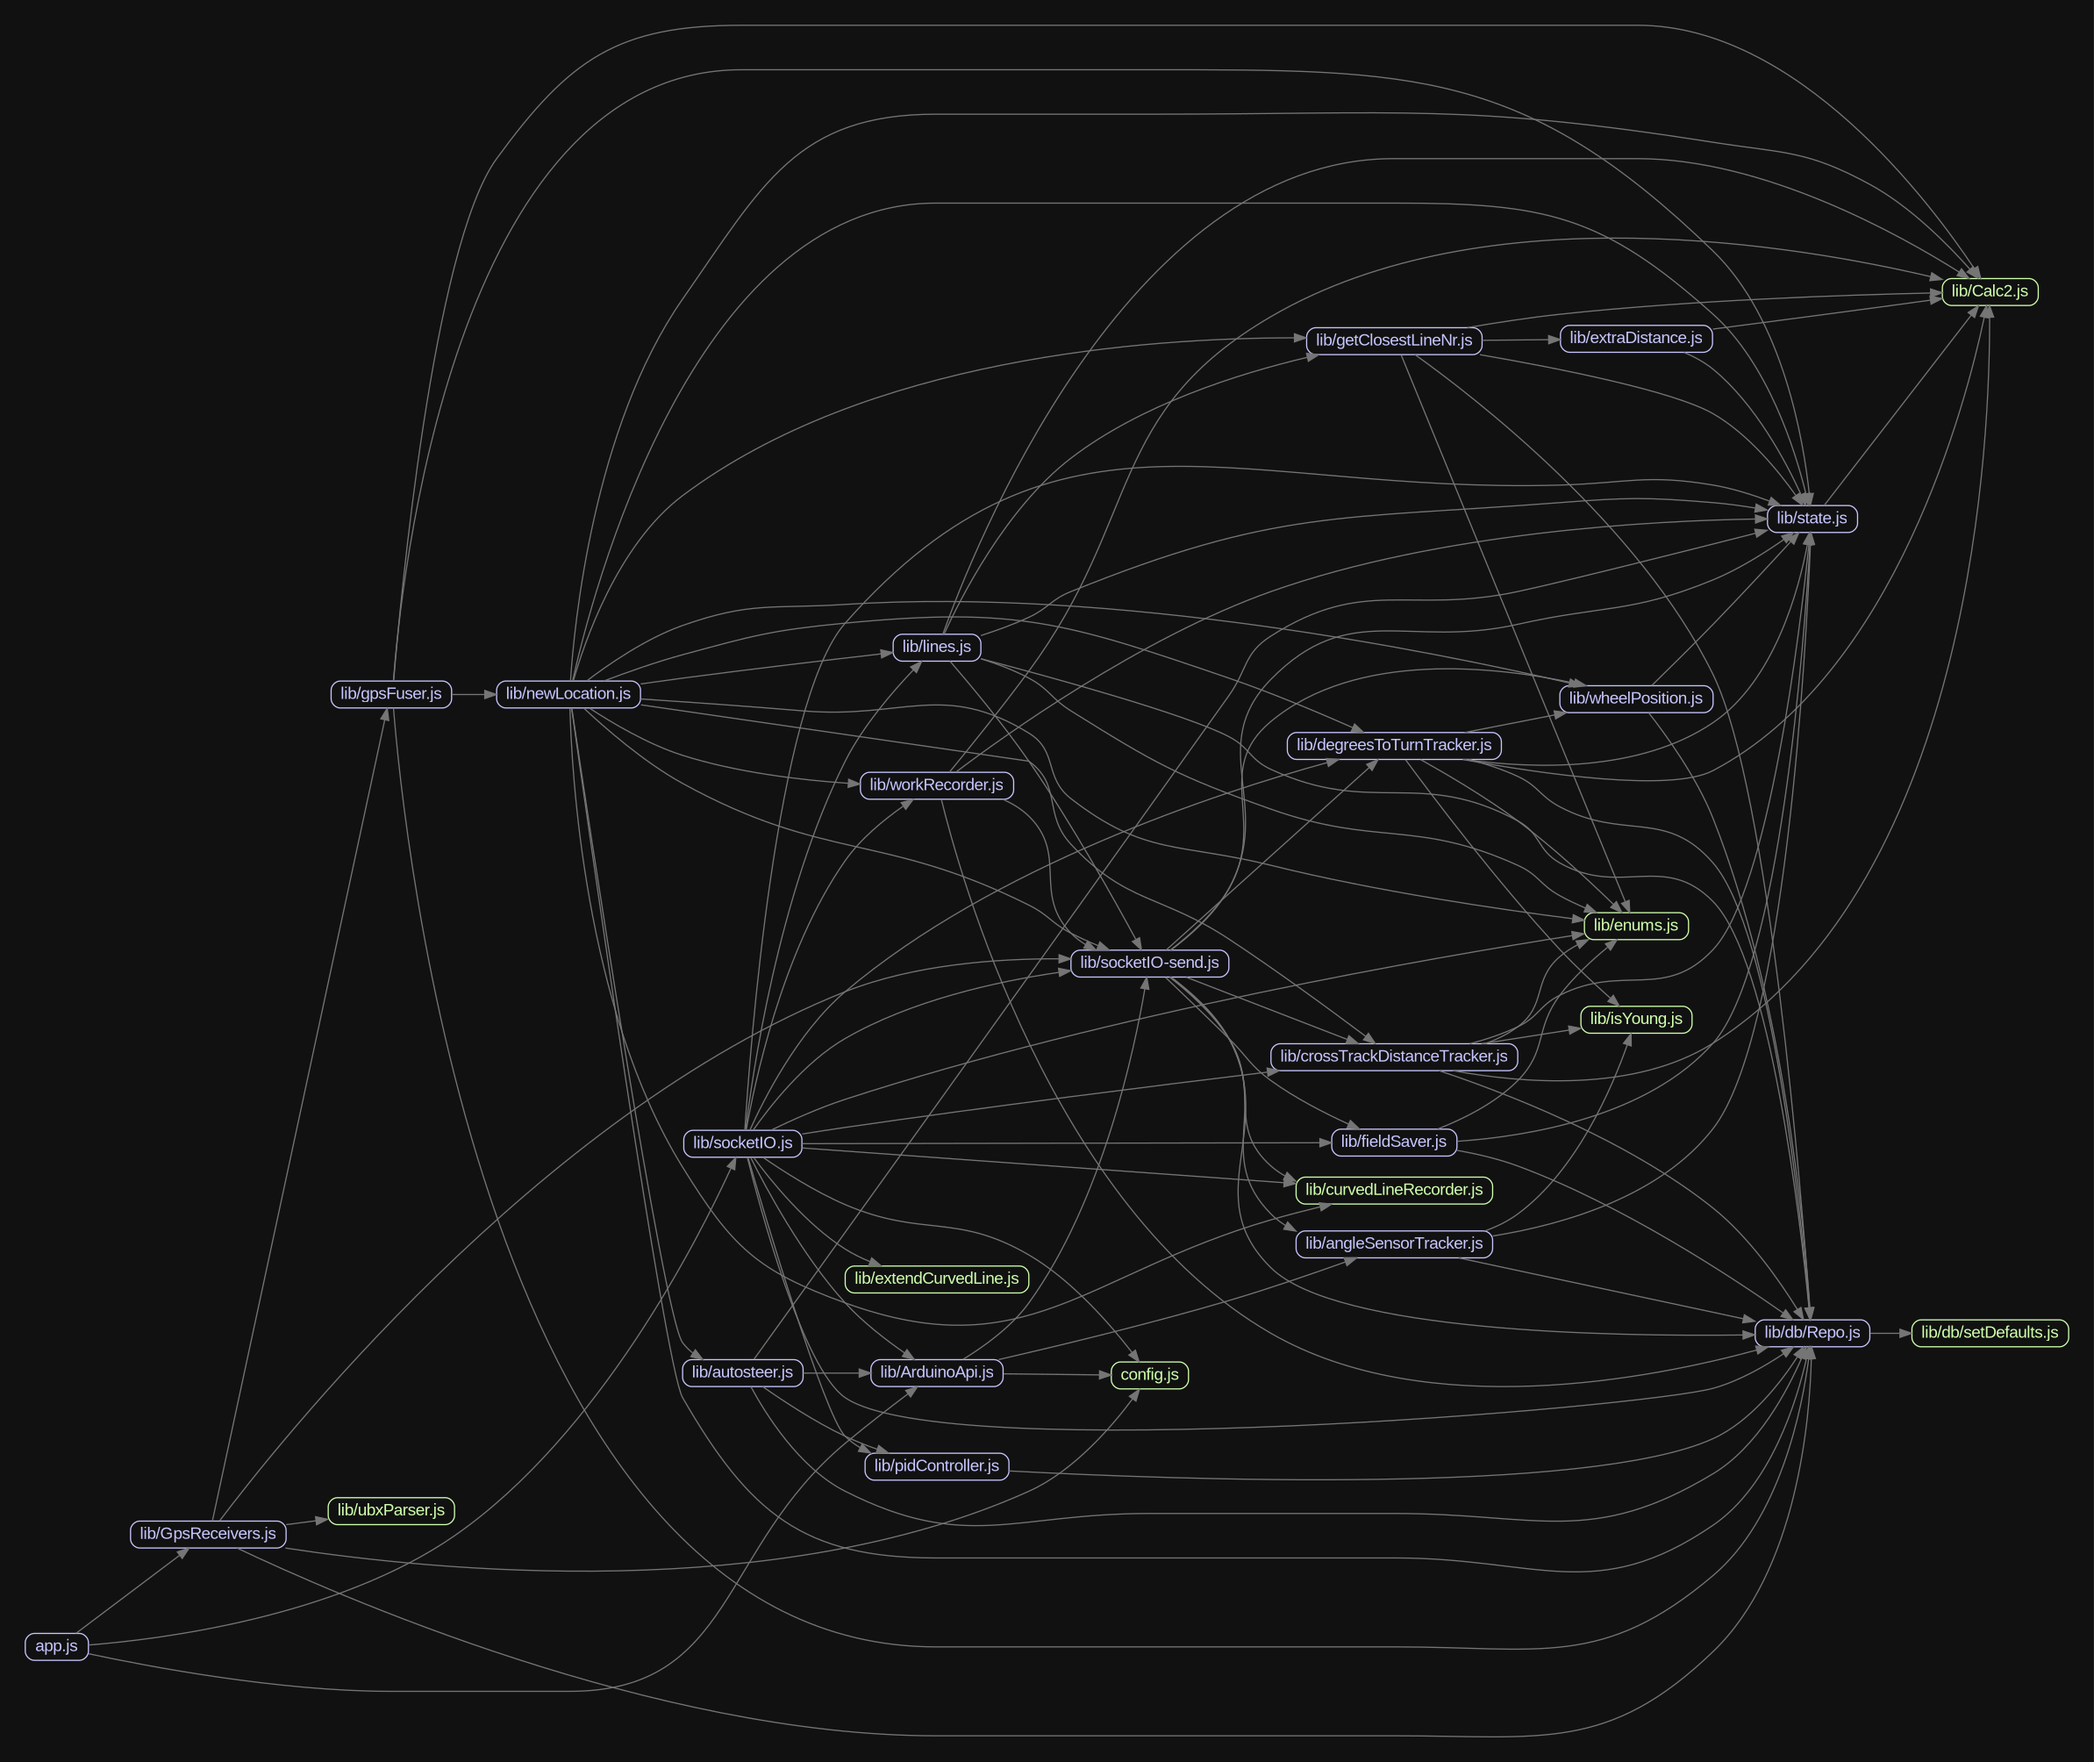
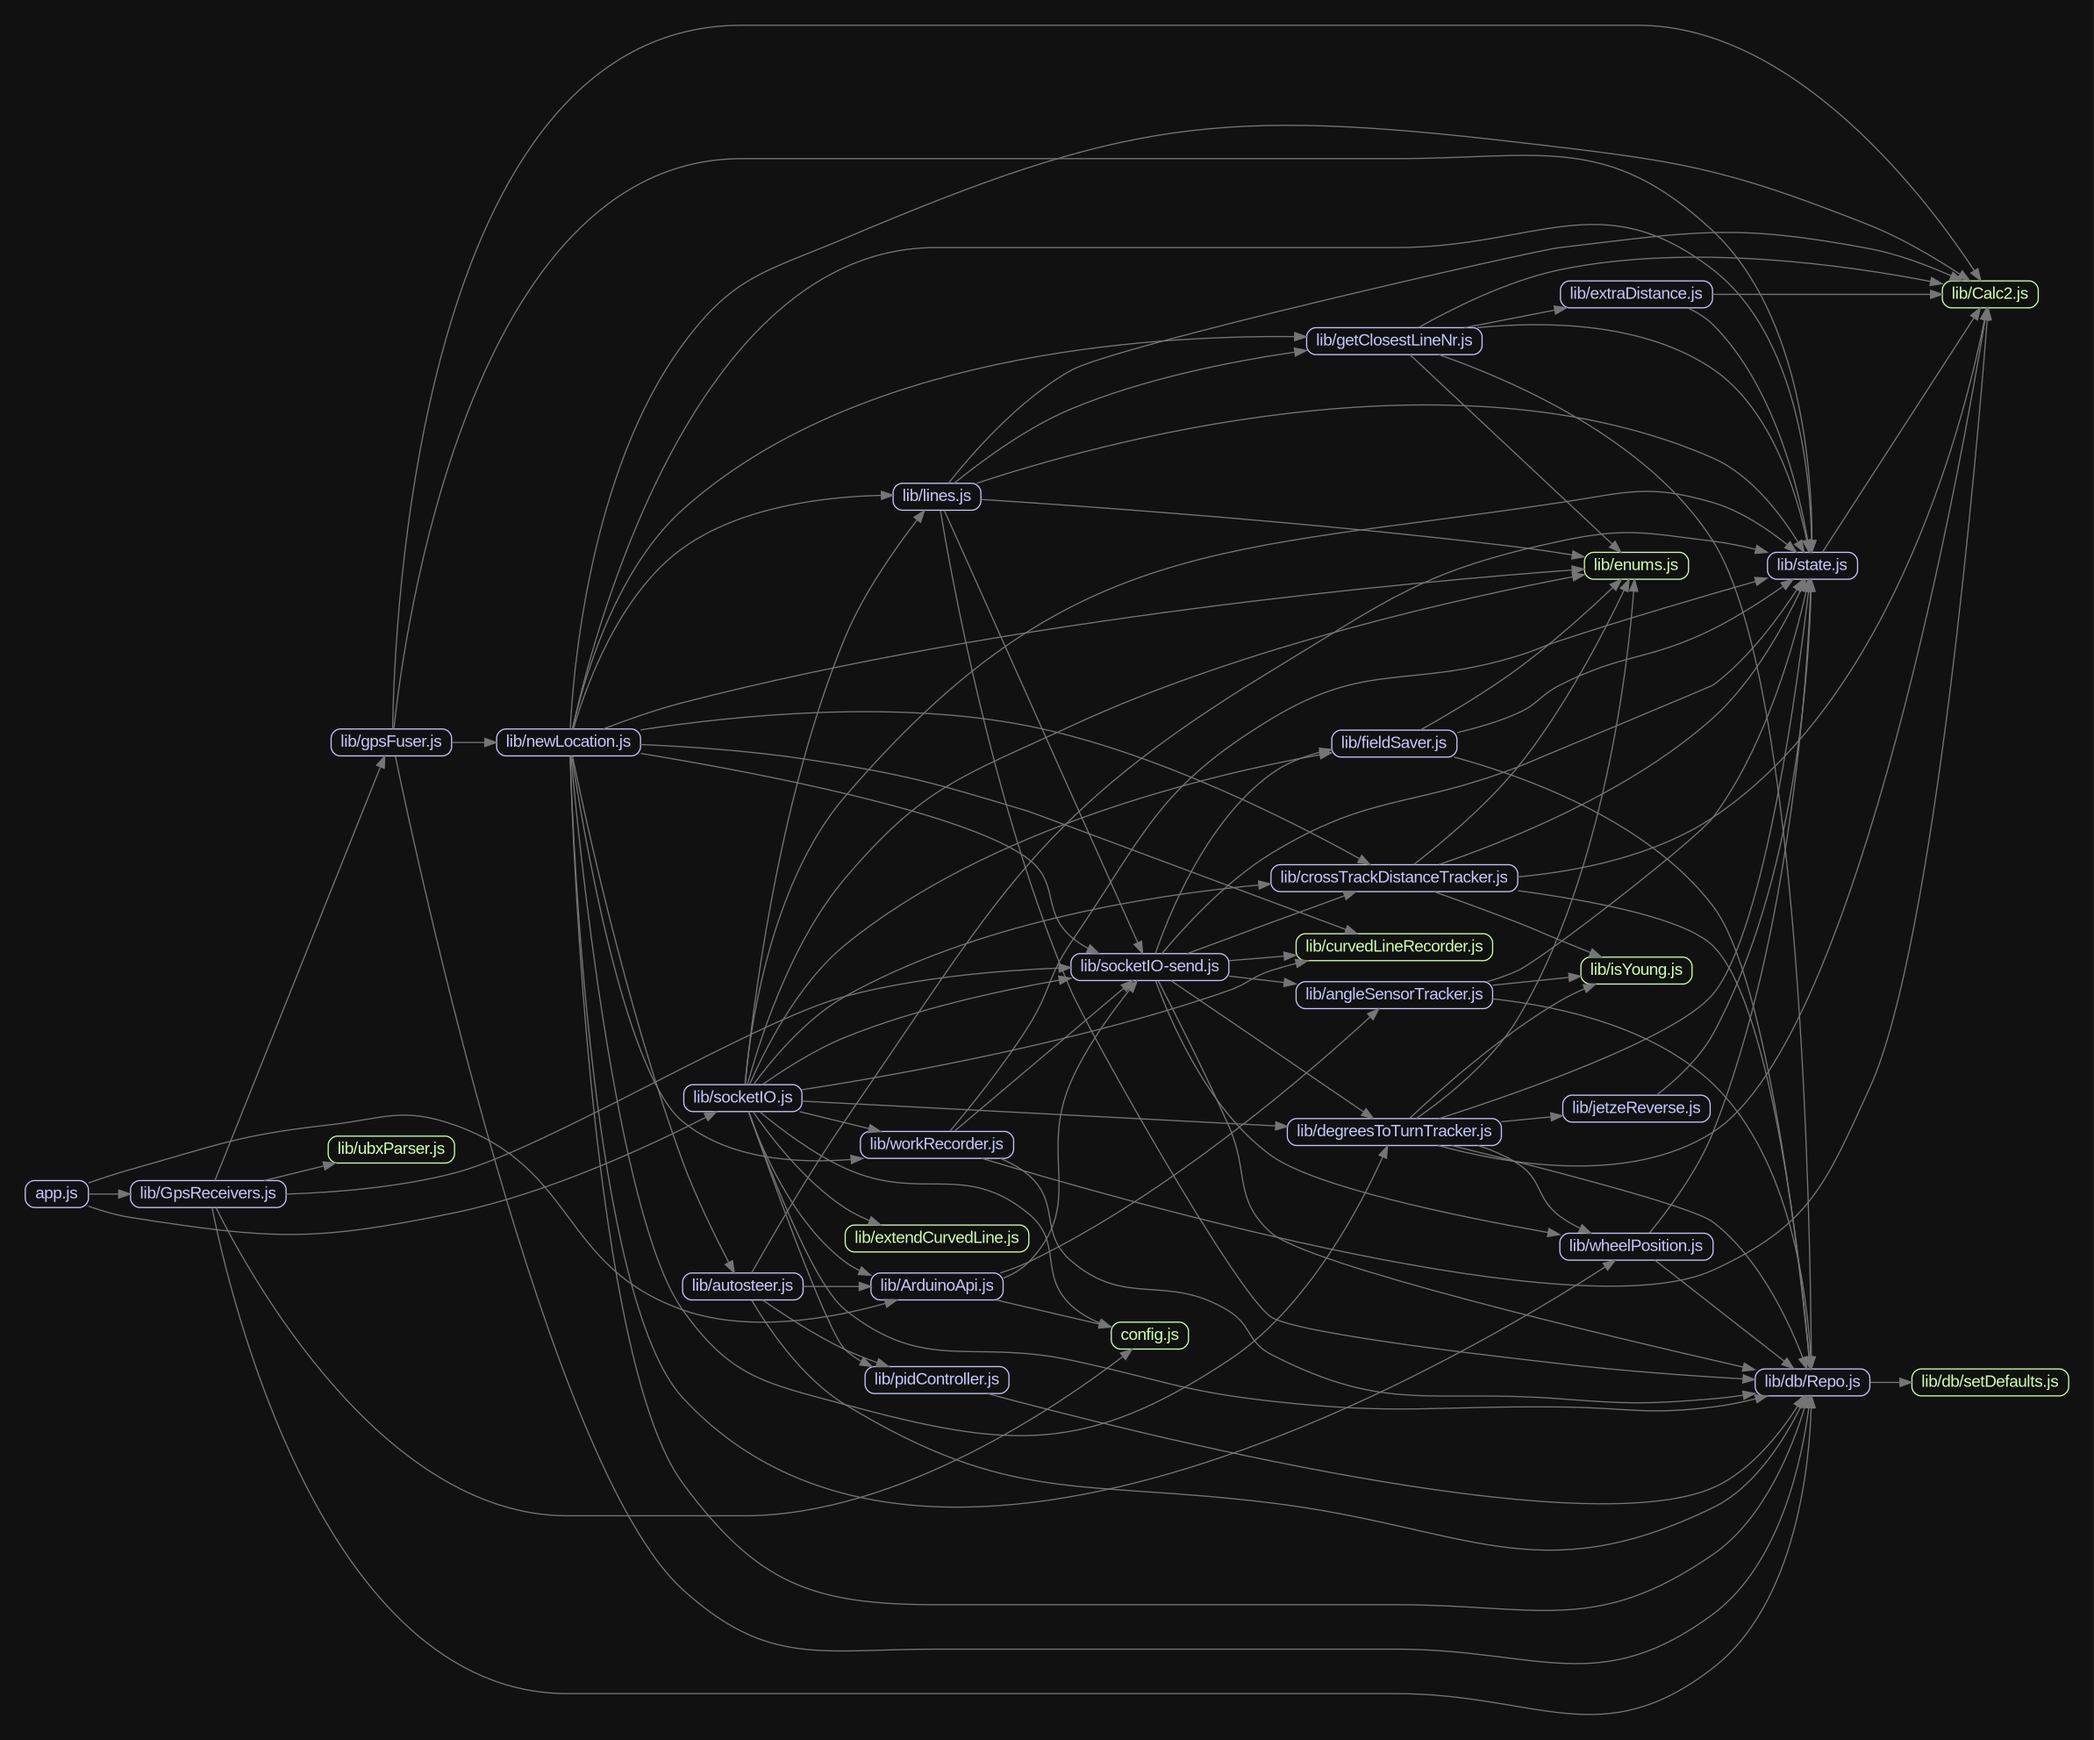
fixes and reverse

diff --git a/lib/GpsReceivers.js b/lib/GpsReceivers.js
@@ -20,6 +20,7 @@ const ntripClient = new NtripClient({
   mountpoint: DB.getSettings().ntrip.mountpoint,
   username: DB.getSettings().ntrip.username,
   password: DB.getSettings().ntrip.password,
+  timeout: 2000,
   interval: 2000 // the interval of send nmea, unit is millisecond
 });
 
@@ -27,10 +28,10 @@ assistNow();
 function assistNow() {
   axios.get('http://online-live1.services.u-blox.com/GetOnlineData.ashx?token=_REPLACE-WITH-UBLOX-ASSISTNOW-TOKEN_;gnss=gps,glo,gal;datatype=eph,alm', { responseType: 'arraybuffer' })
     .then(response => {
-      portGpsLeft.write(response.data);
-      portGpsRight.write(response.data);
+        portGpsLeft.write(response.data);
+        portGpsRight.write(response.data);
     }).catch(error => {
-      console.error('assistnow:' ,error);
+      console.error('assistnow:', error);
     });
 }
 
@@ -106,15 +107,15 @@ function processUbxRight(ubx) {
 }
 
 function setupReceiver(port) {
-  port.write('B562068A09000001000005005210000160', 'hex'); //valset disable CFG-UART1
-  port.write('B562068A09000001000005005310000263', 'hex'); //valset disable CFG-UART2
-  port.write('B56206080600C80001000000DD68', 'hex'); //rate 5hz
+    port.write('B562068A09000001000005005210000160', 'hex'); //valset disable CFG-UART1  
+    port.write('B562068A09000001000005005310000263', 'hex'); //valset disable CFG-UART2  
+    port.write('B56206080600C80001000000DD68', 'hex'); //rate 5hz
 
[1 lines of base64/hex data omitted]
-  port.write('B562068A090000010000AE00912000F98A', 'hex'); //CFG-MSGOUT disable RMC
-
-  //  portGpsLeft.write('B562060108000114000000010000253A', 'hex'); //NAV-HPPOSLLH
-  port.write('B562068A09000001000009009120015552', 'hex'); //valset enable CFG-UBX_NAV_PVT_USB
[1 lines of base64/hex data omitted]
+    port.write('B562068A090000010000AE00912000F98A', 'hex'); //CFG-MSGOUT disable RMC
+ 
+    //  portGpsLeft.write('B562060108000114000000010000253A', 'hex'); //NAV-HPPOSLLH
+    port.write('B562068A09000001000009009120015552', 'hex'); //valset enable CFG-UBX_NAV_PVT_USB
   //port.write('B562068A0900000100000400922001513c', 'hex'); //valset enable CFG-INFMSG-UBX_USB
 }
 

diff --git a/lib/degreesToTurnTracker.js b/lib/degreesToTurnTracker.js
@@ -7,7 +7,8 @@ const Calc2 = require('./Calc2');
 const isYoung = require('./isYoung');
 const WheelPosition = require('./wheelPosition');
 const Enums = require('./enums');
-
+const Tractor = require('./jetzeReverse').Tractor;
+const TargetLine  = require('./jetzeReverse').TargetLine;
 const DegreesToTurnTracker = (function () {
   let historys = [];
   function update(currentLocation) {
@@ -41,16 +42,26 @@ const DegreesToTurnTracker = (function () {
   }
 
   function updateReverse(currentLocation){
-    const antennaToRearAxleDistance = DB.getSettings().machine.antennaToRearAxleDistance;
-    let reverseDriveBearing = State.driveBearing - 180;
-    const turningRadius = 2;
-    let rearwheelPosition = turf.rhumbDestination(currentLocation, antennaToRearAxleDistance / 1000, reverseDriveBearing).geometry.coordinates; // 2 meter achteruit voor wielen
     
-    if(Calc2.getCrossTrackDistance(State.lines.closestLine[0], rearwheelPosition, State.abLineBearing) > turningRadius){
-      
-    }
+    //target line
+    const pointA = State.lines.closestLine[0]; //[longitude, latitude] 
+    const pointB = State.lines.closestLine[1]; //[longitude, latitude]
+    
+    const maxSteeringAngle = DB.getSettings().machine.maxSteeringAngle; //in degrees
 
-
+    var tractor    = new Tractor(currentLocation, -State.driveBearing);
+    let targetLine = new TargetLine(pointA, pointB, tractor);
+    // Determine if the tractor is too close or too far.
+    let toClose   = targetLine.tractorToClose();
+    let toFar     = targetLine.tractorToFar();
+    // Determine whether to steer left or right
+    let turnAngle = targetLine.tractorTurnDirection(toClose, toFar)*maxSteeringAngle;
+    // Correction for distance to line and speed.
+    turnAngle = turnAngle*(targetLine.alignmentFactor()*targetLine.speedFactor());
+    // console.log('toFar', toFar);
+    // console.log('toClose', toClose)
+    // console.log('turnAngle', turnAngle)
+    State.degreesToTurn = turnAngle
   }
 
   function clear(){

diff --git a/lib/socketIO.js b/lib/socketIO.js
@@ -108,8 +108,8 @@ io.on('connection', (socket) => {
     DB.setSteeringAngleSensor(maxLeft, straight, maxRight);
     IoSend.sendSaveSettingsSuccess(socket);
   });
-  socket.on('saveMachineSettings', ({ antennaHeight, antennaToFrontAxleDistance, antennaToRearAxleDistance, maxSteeringAngle }) => {
-    DB.setMachineSettinges(antennaHeight, antennaToFrontAxleDistance, antennaToRearAxleDistance, maxSteeringAngle);
+  socket.on('saveMachineSettings', ({ antennaHeight, antennaToFrontAxleDistance, antennaToRearAxleDistance, maxSteeringAngle, isReverseSteeringEnabled }) => {
+    DB.setMachineSettinges(antennaHeight, antennaToFrontAxleDistance, antennaToRearAxleDistance, maxSteeringAngle, isReverseSteeringEnabled);
     IoSend.sendSaveSettingsSuccess(socket);
   })
   socket.on('getAngleSensorSettings', () => {
@@ -177,8 +177,10 @@ io.on('connection', (socket) => {
     IoSend.sendABIsSetStatus();
     IoSend.sendClearMap();
     State.curvedLines.abLine = [];
+    State.curvedLines.closestLine = [];
     State.curvedLines.others = [];
     State.isAutosteerAllowed = false;
+    State.bigWorkPolygons = [];
     IoSend.sendIsAutoSteerAllowed();
   });
   socket.on('curvedIsRecording', (isRecording) => {

diff --git a/lib/db/Repo.js b/lib/db/Repo.js
@@ -14,8 +14,8 @@ class Repo {
   static setSteeringAngleSensor(maxLeft, straight, maxRight) {
     db.set('settings.steeringAngleSensor', { maxLeft, straight, maxRight }).write();
   }
-  static setMachineSettinges(antennaHeight, antennaToFrontAxleDistance, antennaToRearAxleDistance, maxSteeringAngle) {
-    db.set('settings.machine', { antennaHeight, antennaToFrontAxleDistance, antennaToRearAxleDistance, maxSteeringAngle }).write();
+  static setMachineSettinges(antennaHeight, antennaToFrontAxleDistance, antennaToRearAxleDistance, maxSteeringAngle, isReverseSteeringEnabled) {
+    db.set('settings.machine', { antennaHeight, antennaToFrontAxleDistance, antennaToRearAxleDistance, maxSteeringAngle, isReverseSteeringEnabled }).write();
   }
   static setTargetPointSettings(timeAheadSeconds, minimumDistance) {
     db.set('settings.targetPoint', { timeAheadSeconds, minimumDistance }).write();

diff --git a/lib/newLocation.js b/lib/newLocation.js
@@ -81,11 +81,12 @@ function straightLinesReady(currentLocation) {
     previousClosestLineNr = closestLineNr;
   }
   CrossTrackDistanceTracker.update(currentLocation);
-  // if(State.gps.isReversing && DB.getSettings().mode === 'straightABlines'){
-  //   DegreesToTurnTracker.updateReverse(currentLocation);
-  // }else{
-  // }
-  DegreesToTurnTracker.update(currentLocation);
+  if(State.gps.isReversing && DB.getSettings().mode === 'straightABlines' && DB.getSettings().machine.isReverseSteeringEnabled){
+    DegreesToTurnTracker.updateReverse(currentLocation);
+  }else{
+    DegreesToTurnTracker.update(currentLocation);
+  }
+
   ioSend.sendDegreesToTurn();
   ioSend.sendCrossTrackDistance(CrossTrackDistanceTracker.getCrossTrackDistanceWithTime());
   ioSend.sendTargetPointLocation();

diff --git a/lib/gpsFuser.js b/lib/gpsFuser.js
@@ -57,7 +57,12 @@ function fuse2() {
     let middleLocation = Calc2.coord(r1Location, receiverHeading, receiverDistance / 2);
     let currentCorrectedLocation = correctForSlopeDual(middleLocation, heading, slope);
     State.gps.isReversing = IsReversing.isit(currentCorrectedLocation, r1Location, r2Location);
-    NewLocation(currentCorrectedLocation);
+    try {
+      NewLocation(currentCorrectedLocation);  
+    } catch (error) {
+      console.log('fuse2 catch: ', error);
+    }
+    
   }
 }
 

diff --git a/lib/db/setDefaults.js b/lib/db/setDefaults.js
@@ -13,7 +13,7 @@ const set = function (db) {
       steering: {
         method: "hydraulic",
         pid: {
-          p: 1,
+          p: 20,
           i: 0,
           d: 0
         },
@@ -28,7 +28,7 @@ const set = function (db) {
       },
       targetPoint: {
         timeAheadSeconds: 1.5,
-        minimumDistance: 0.33
+        minimumDistance: 0.8
       },
       ntrip: {
         host: "flepos.vlaanderen.be",
